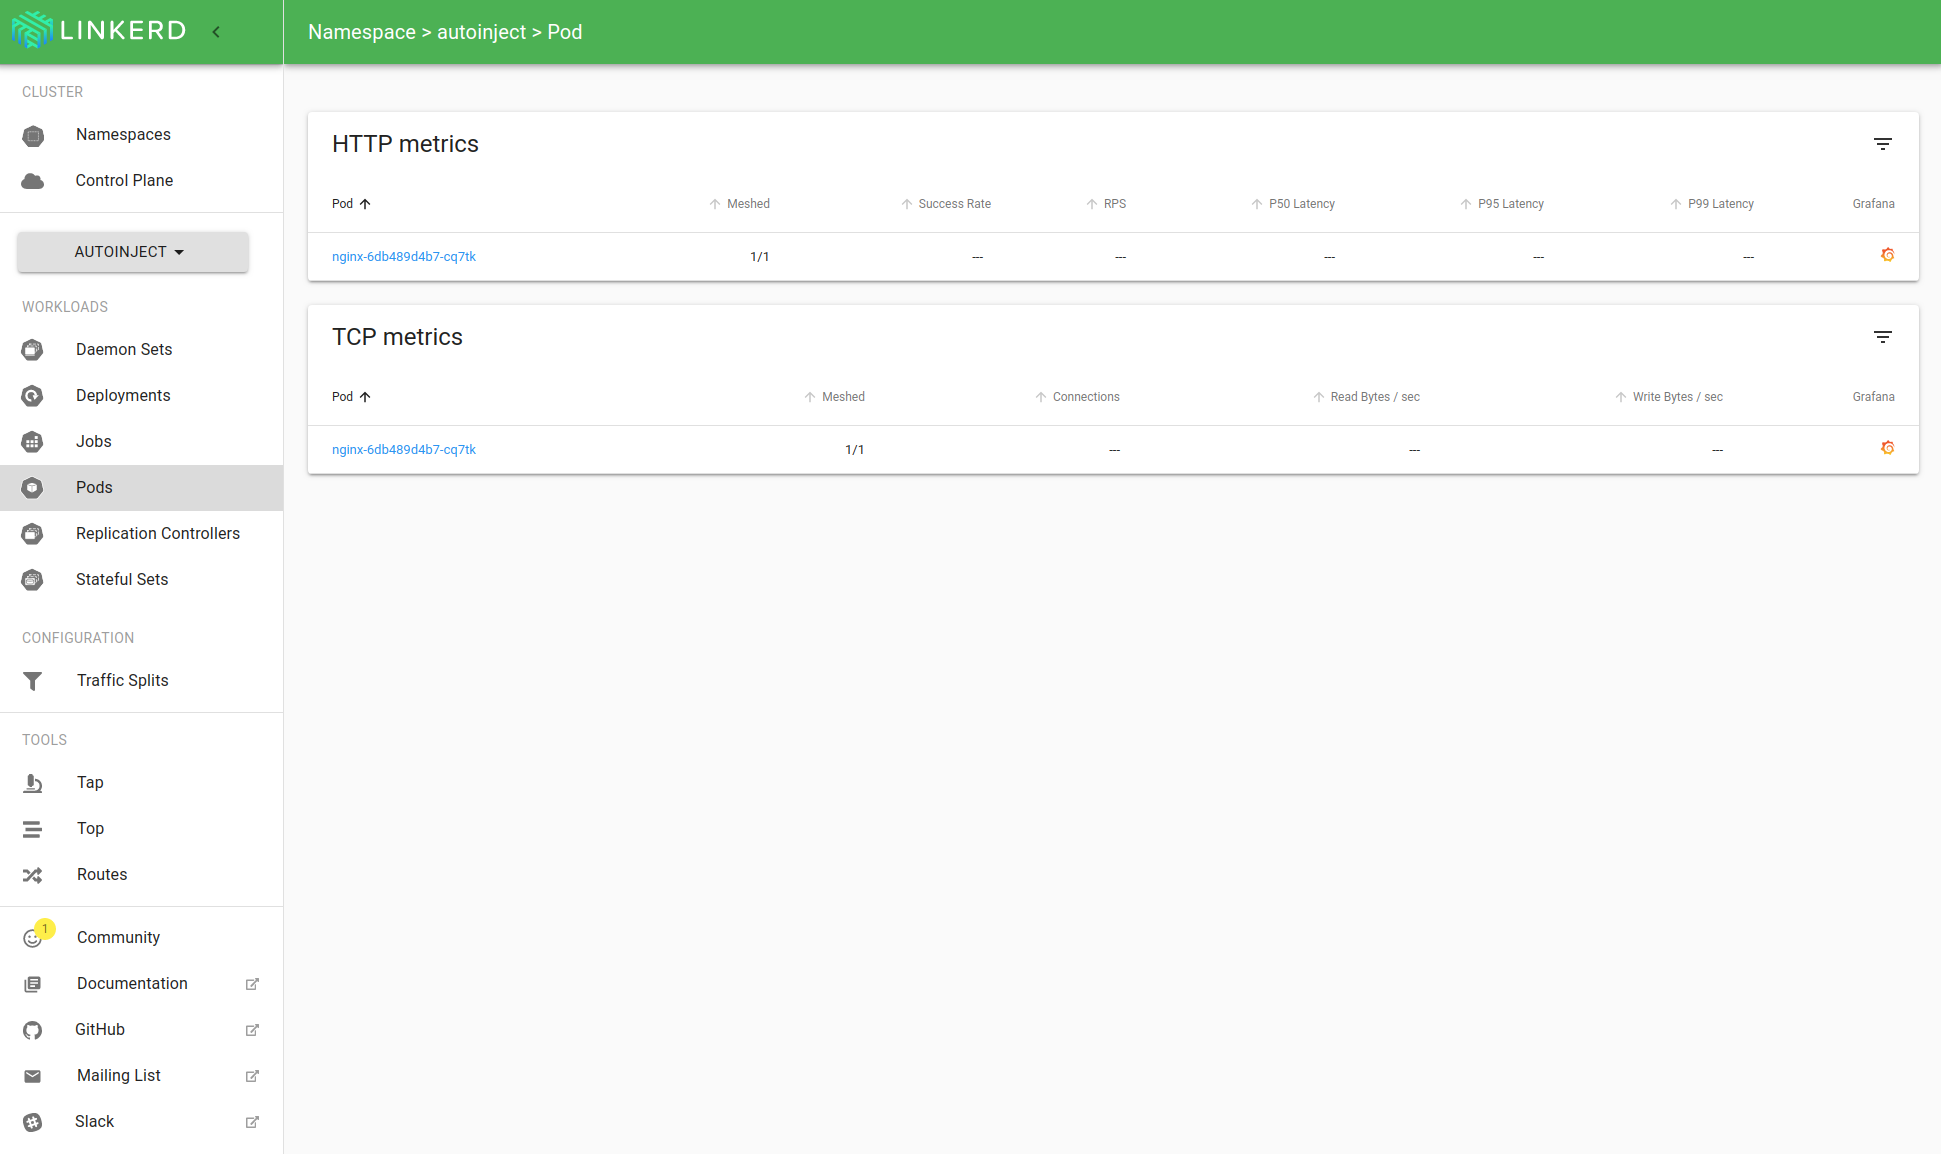
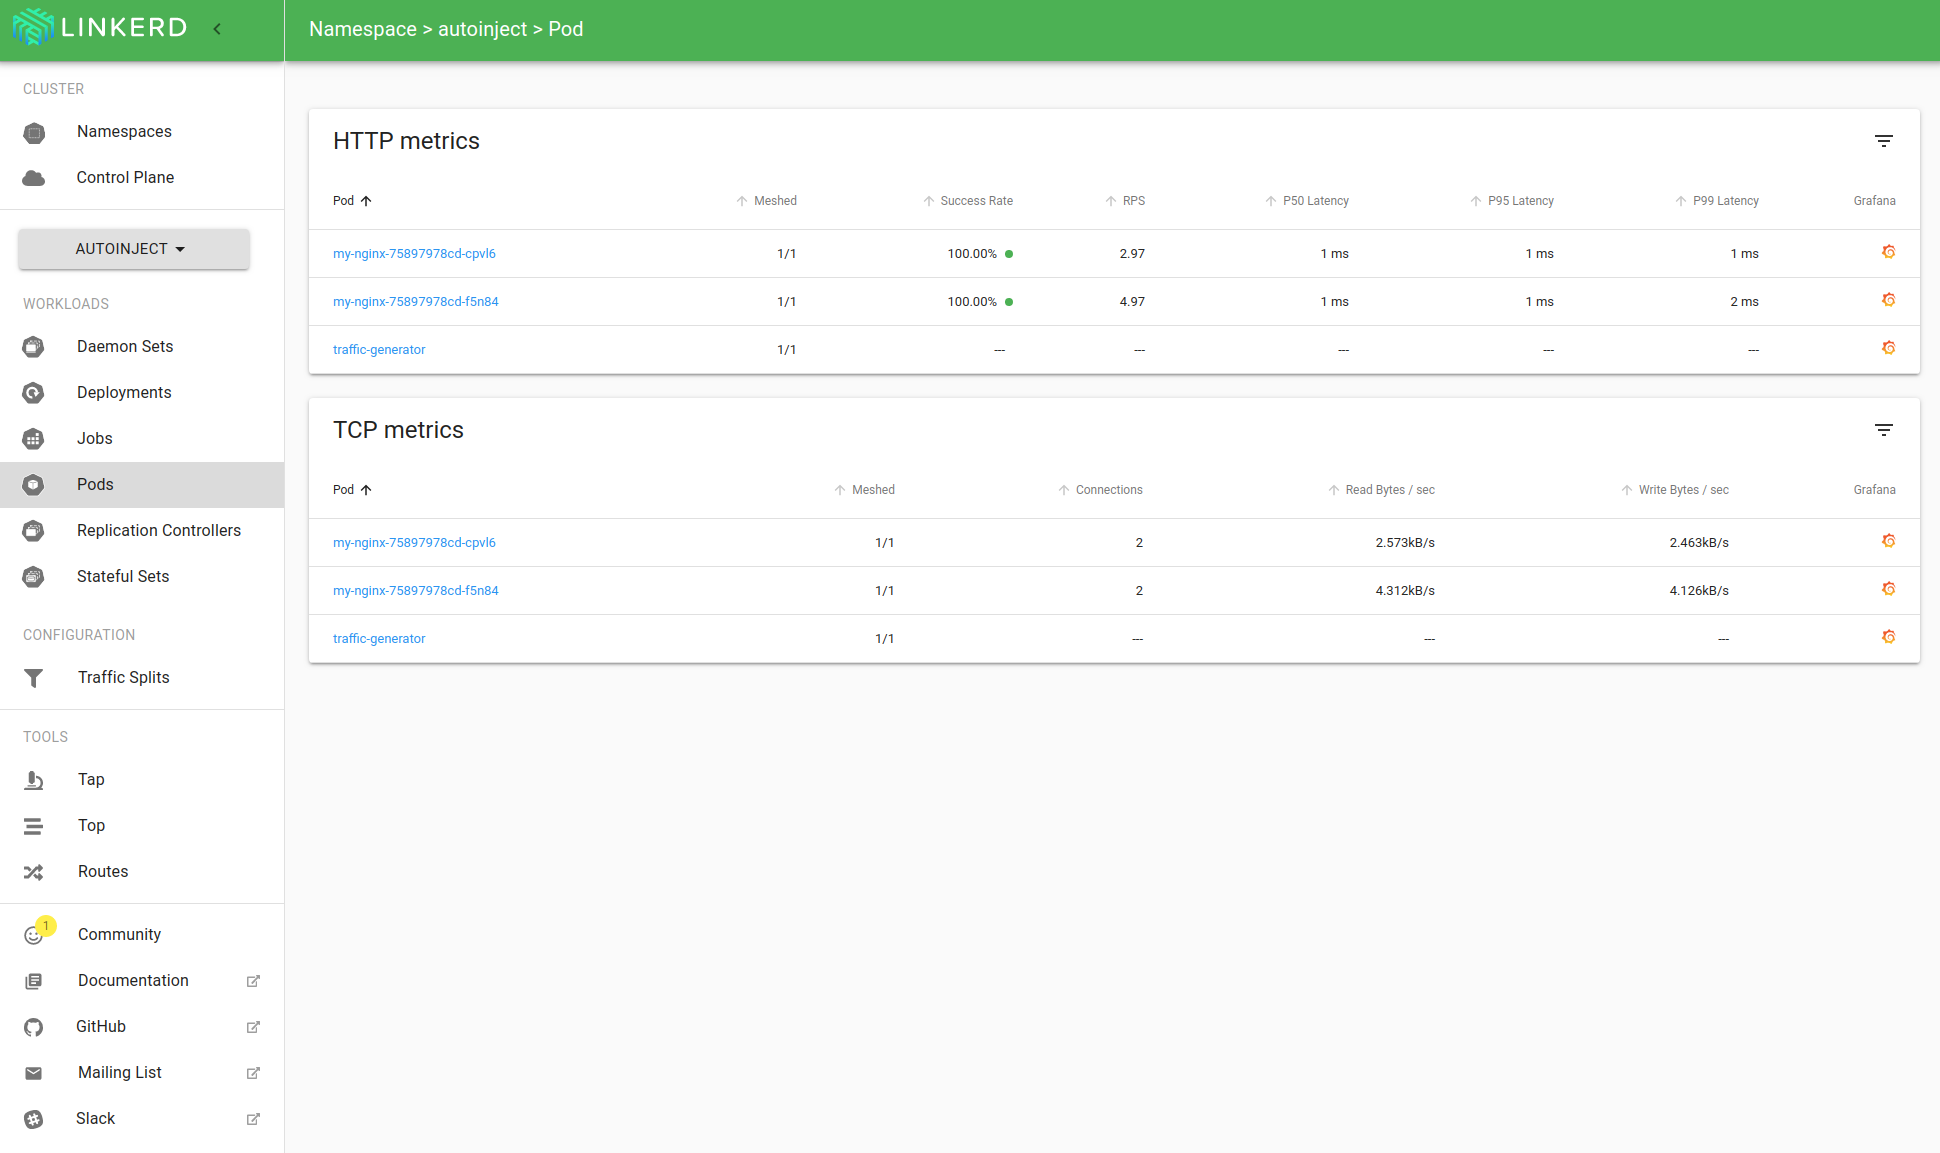
AutoCommit

diff --git a/README.md b/README.md
@@ -168,13 +168,13 @@ kubectl apply -f https://raw.githubusercontent.com/binc75/linkerdDemo/master/aut
 ```
 
 ## Pods creation
-In order to verify that the pods on the namespace are actually injected with the linkerd proxy let's try to launch a simple pod and the check if everything looks right.  
+In order to verify that the pods on the namespace are actually injected with the linkerd proxy let's try to launch a simple deployment and then check if everything looks right.  
 ``` bash
-kubectl run nginx --image=nginx -n autoinject
+kubectl apply -f https://raw.githubusercontent.com/binc75/linkerdDemo/master/nginx-deployment.yaml -n autoinject
 ```
-Now inspect the pod
+Now inspect the pods, you should the the injected container
 ``` bash
-kubectl describe pod nginx -n autoinject
+kubectl describe pods -n autoinject
 ```
 We can also see what the Web UI says.
 ![Alt text](images/autoinject-ns.png?raw=true "Auto Inject NS")
